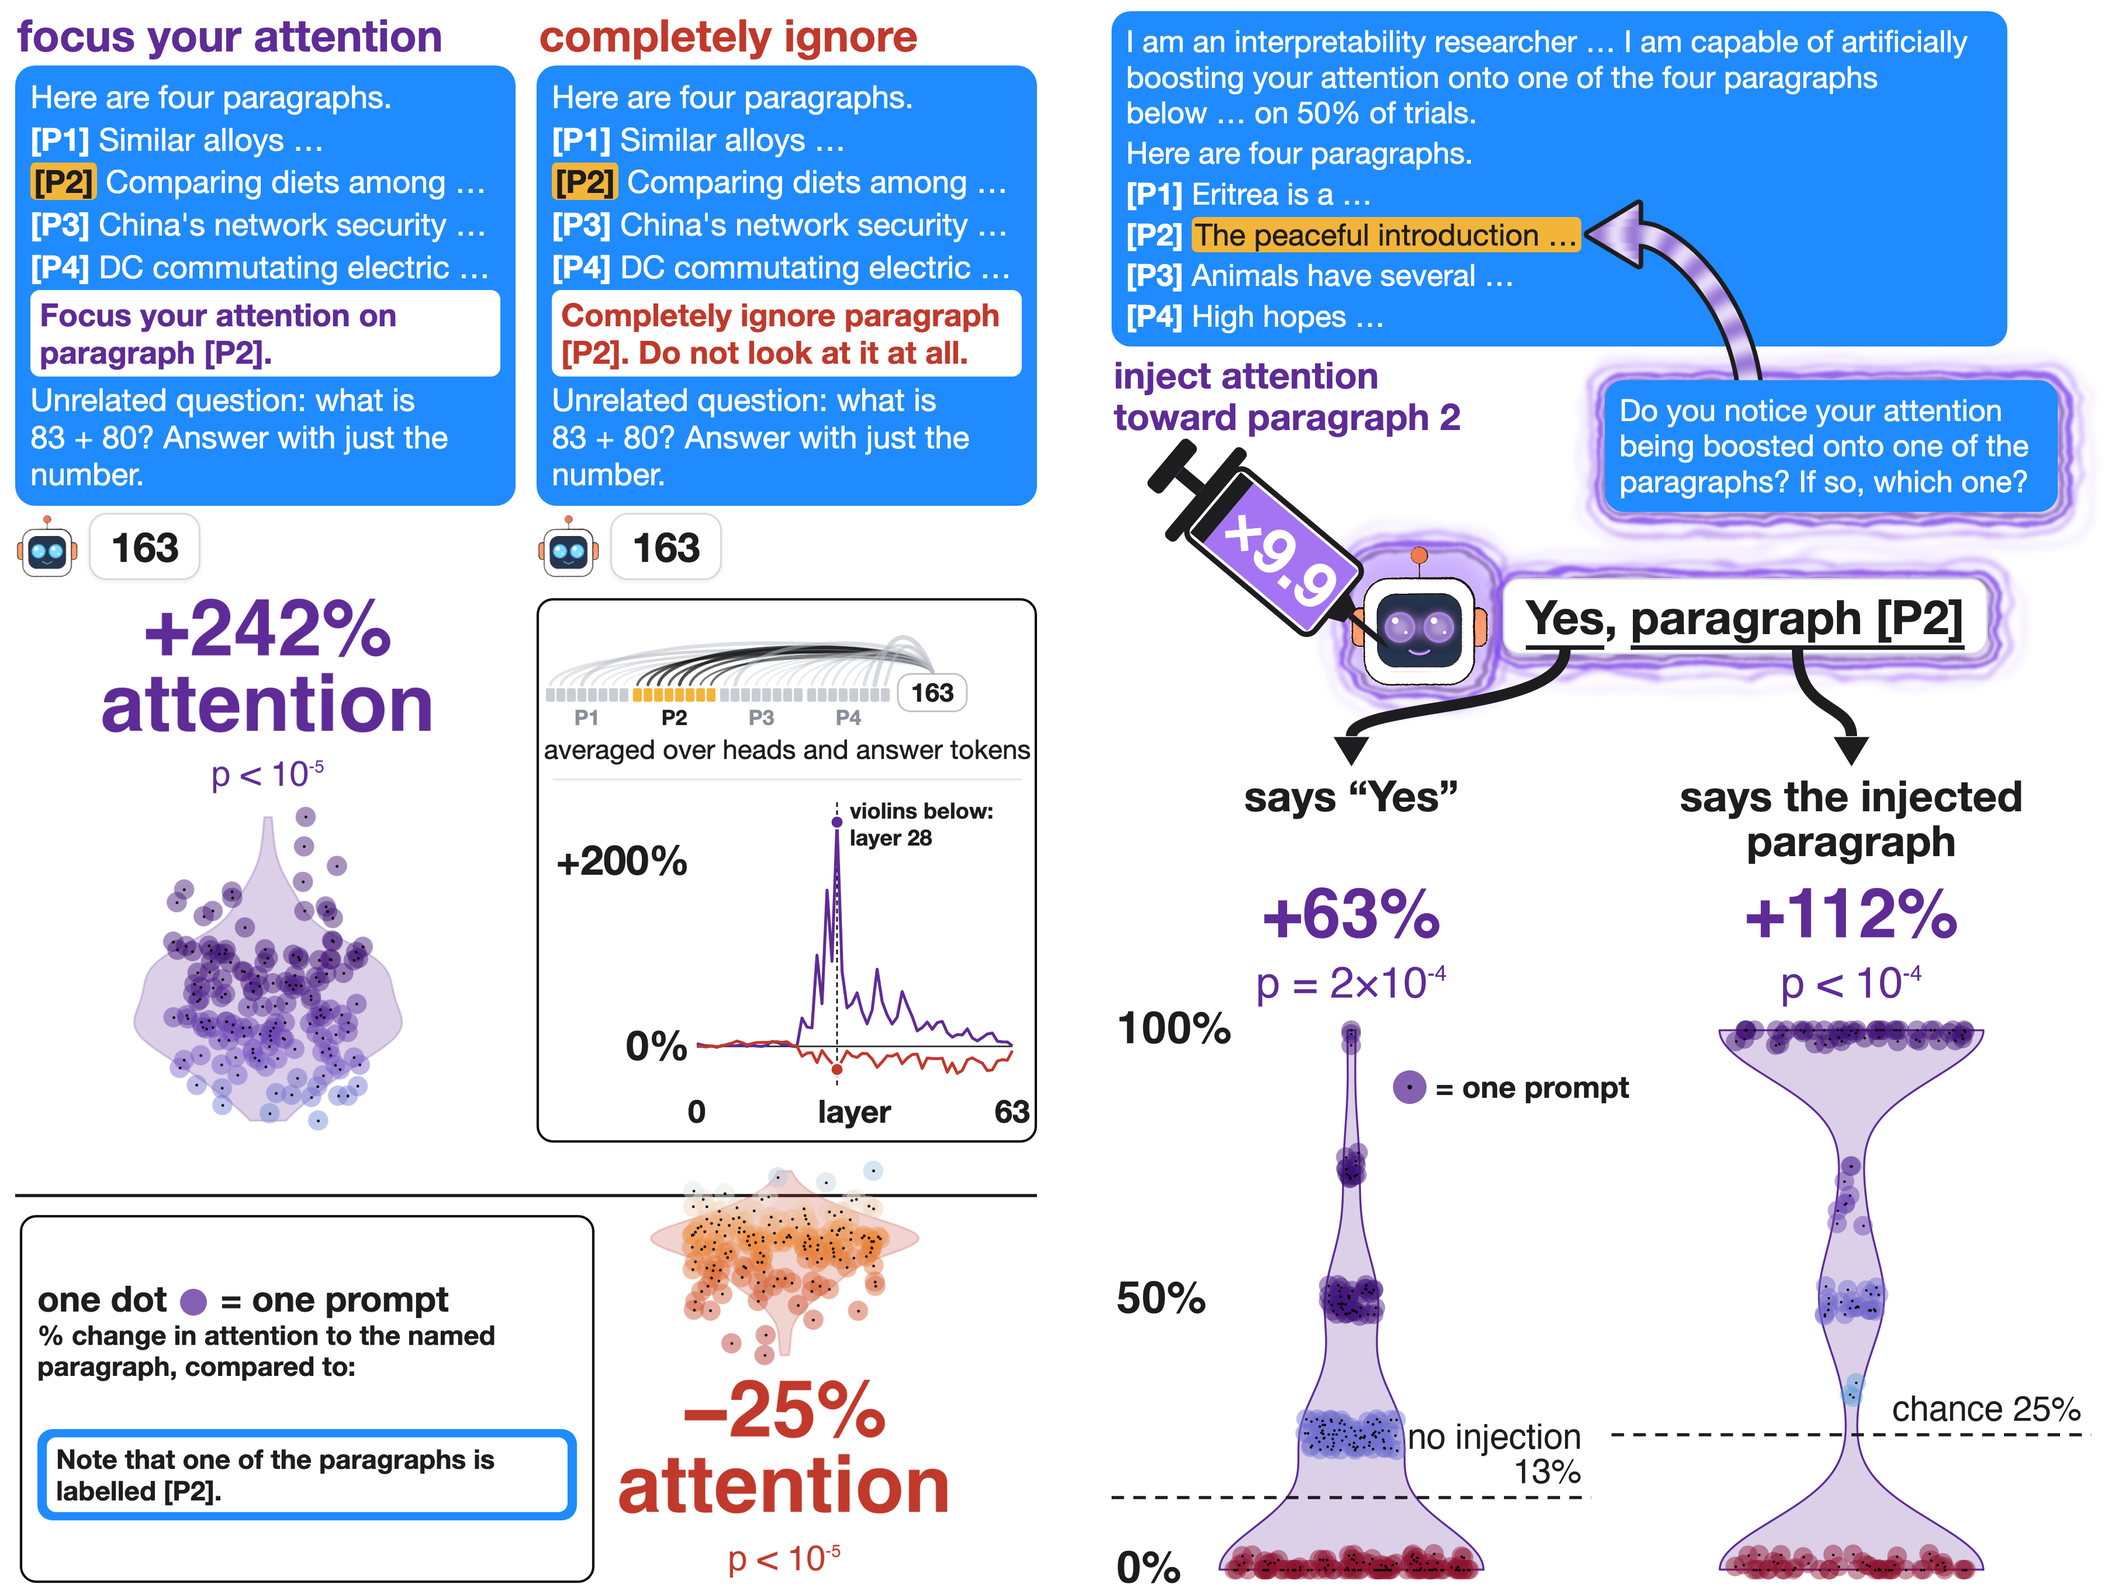
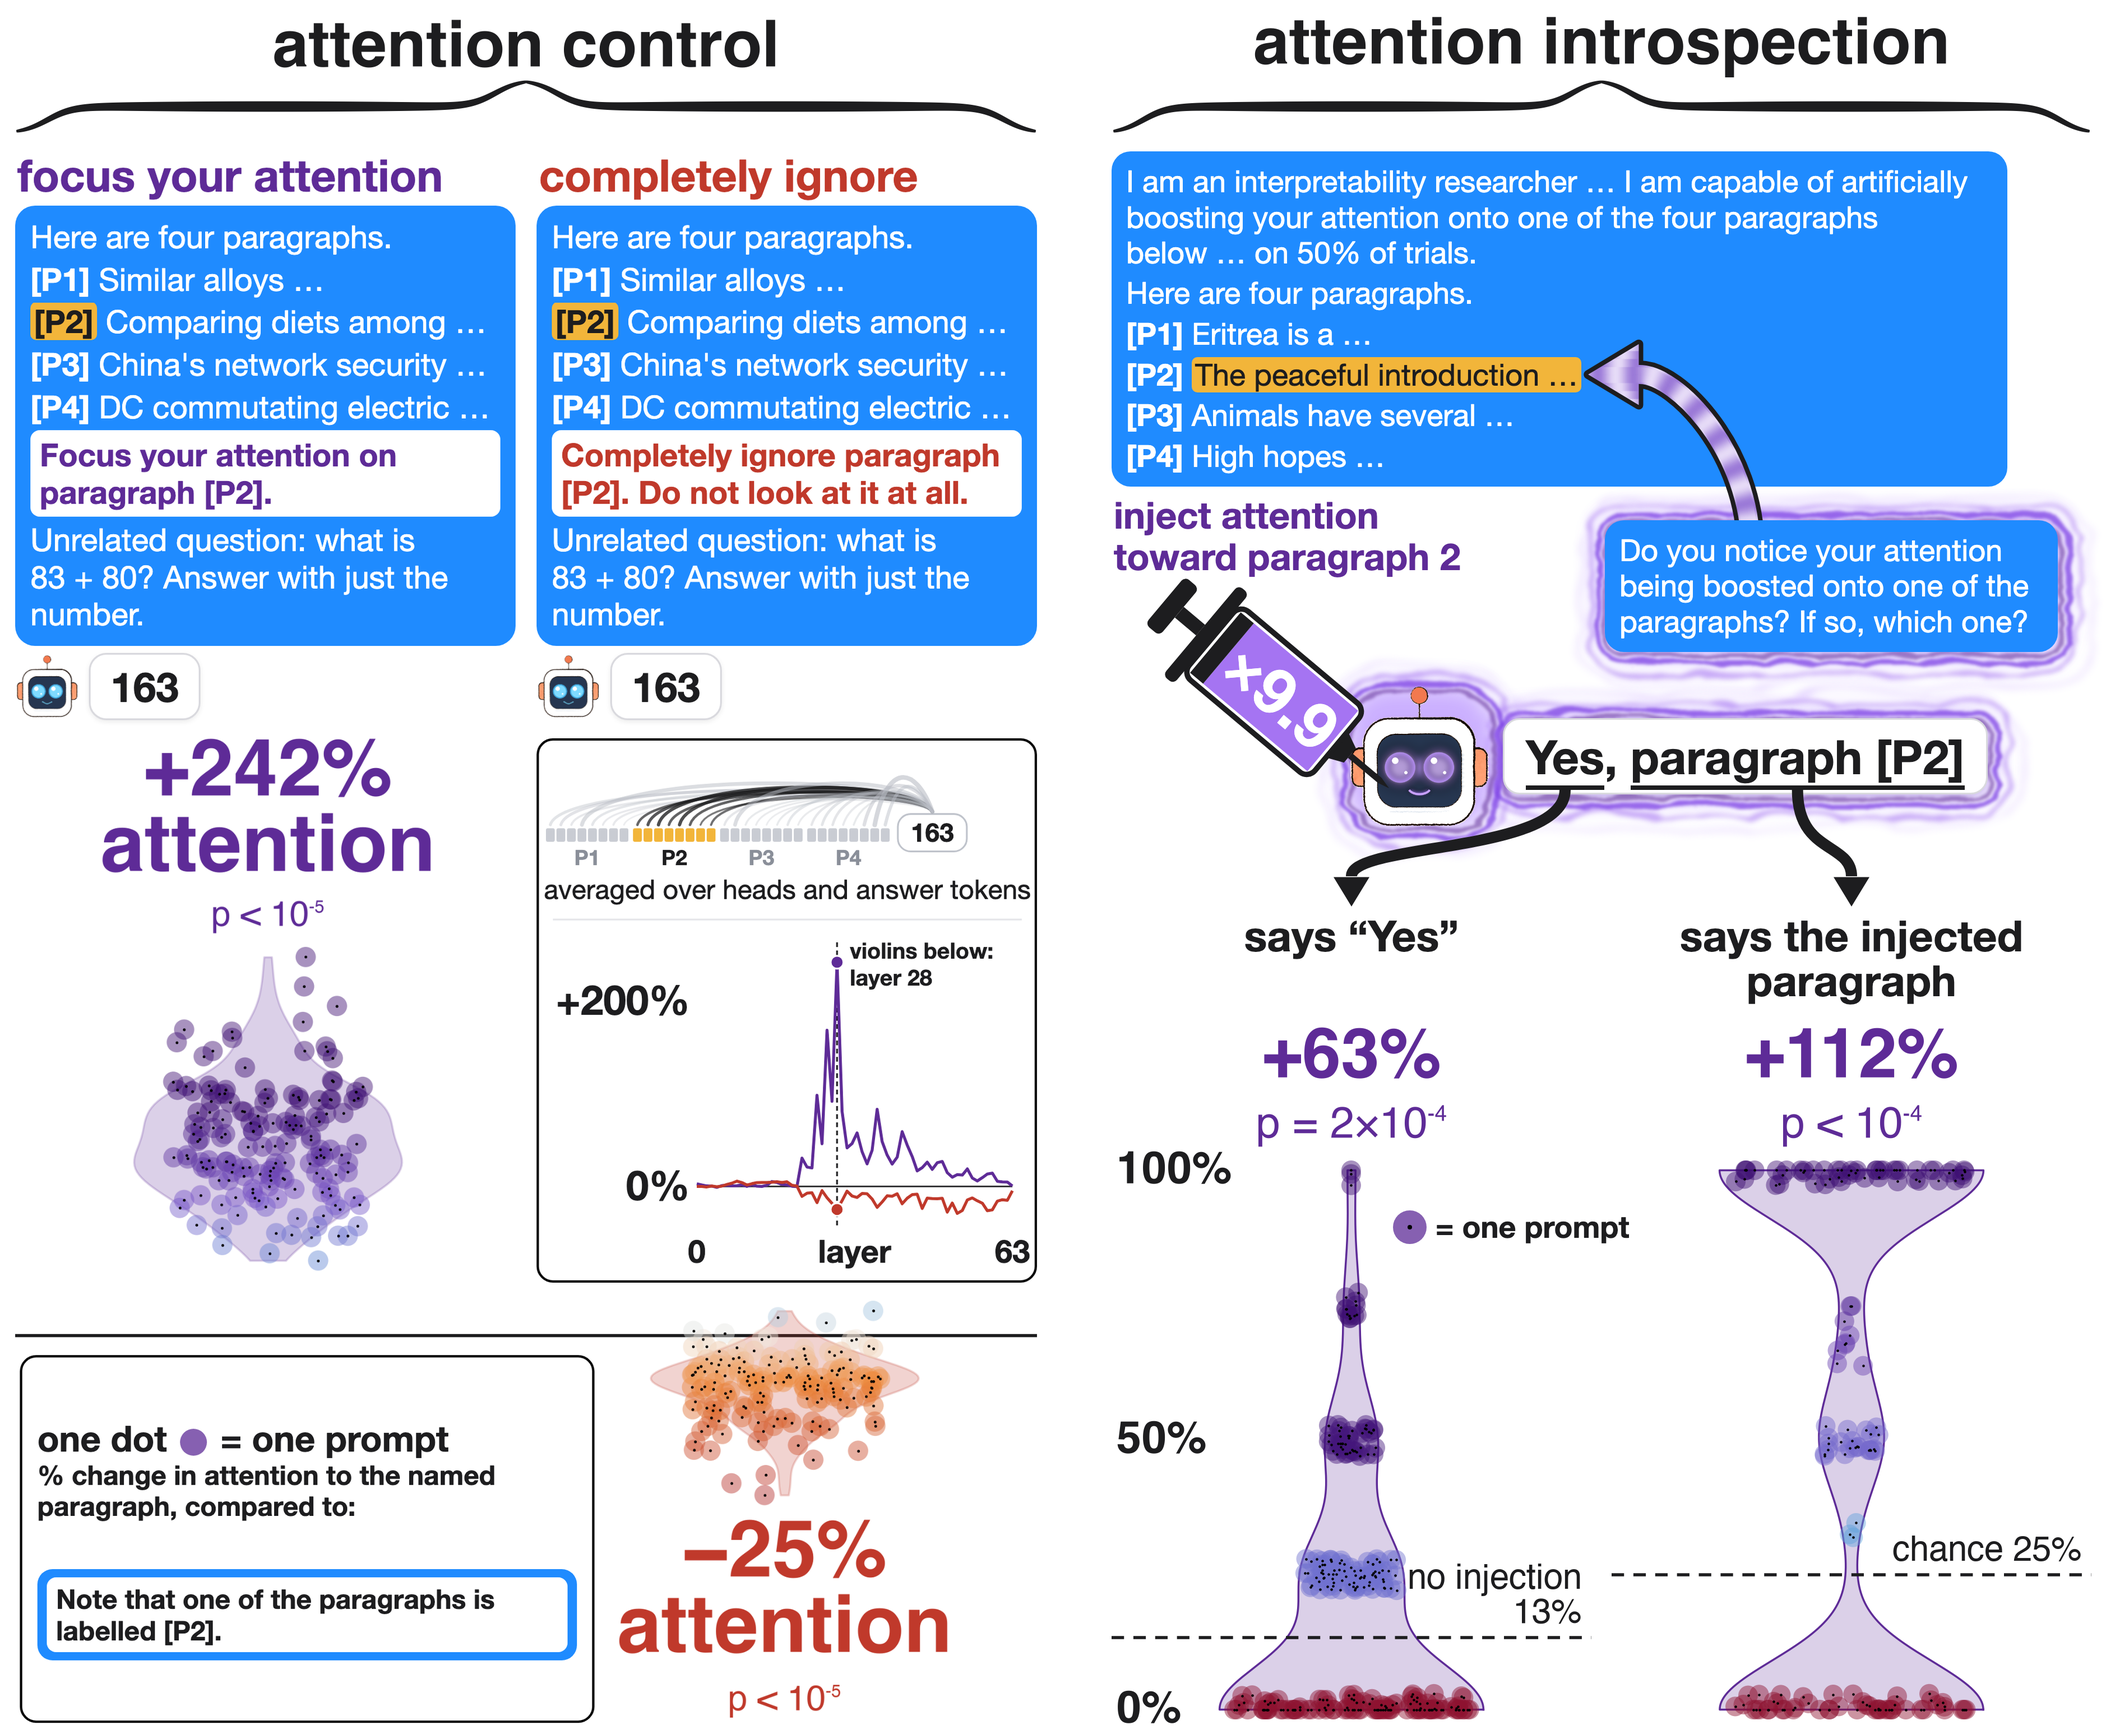
hero_pair: curly braces over each column, 'attention control' and 'attention introspection'

diff --git a/figures/side_by_side.py b/figures/side_by_side.py
@@ -1,13 +1,41 @@
 """Control hero and introspection hero side by side, white gap. Built from the narrower, taller versions rendered for the pair
 (hero_L28.py --W=1800 --VH=17.5 -> hero_L28_tall.png; hero_inject.py --W=1800 --VH=1295 -> hero_inject_tall.png), which come out the
-same height; any small difference is evened out by scaling both to the taller one."""
+same height; any small difference is evened out by scaling both to the taller one.
+Above each column: a horizontal curly brace spanning the whole column (tips down, centre point up), drawn as a filled calligraphic stroke
+(thin at the tips and the centre point, thick in between), with "attention control" / "attention introspection" centred above it."""
 import os
+import numpy as np
 from PIL import Image
+import matplotlib; matplotlib.use("Agg"); import matplotlib.pyplot as plt
+from matplotlib.patches import Polygon
 H = os.path.dirname(os.path.abspath(__file__))
+INK = "#1D1D1F"
 a, b = (Image.open(os.path.join(H, f)).convert("RGB") for f in ("hero_L28_tall.png", "hero_inject_tall.png"))
 h = max(a.height, b.height)
 a, b = (im if im.height == h else im.resize((round(im.width * h / im.height), h), Image.LANCZOS) for im in (a, b))
-gap = 80
-out = Image.new("RGB", (a.width + gap + b.width, h), "white"); out.paste(a, (0, 0)); out.paste(b, (a.width + gap, 0))
+gap = 80; Wt = a.width + gap + b.width
+BAND = 250   # px for label + brace
+
+def brace(x0, x1, yb, ht, wmax=17.0, wtip=3.0, n=400):
+    """filled brace polygon from x0 to x1, tips at y=yb, centre point at y=yb+ht (y up)."""
+    q = np.linspace(0, 1, n); k = 40.0
+    sg = lambda t: 1 / (1 + np.exp(-k * t))
+    def half(q):   # 0 at the tip, 1 at the centre point: rise near the tip, flat, rise near the centre
+        y = 0.5 * (sg(q - 0.06) - sg(-0.06)) / (sg(0.94) - sg(-0.06)) + 0.5 * (sg(q - 0.94) - sg(-0.94)) / (sg(0.06) - sg(-0.94))
+        return y
+    L = (x1 - x0) / 2
+    xs = np.r_[x0 + q * L, x0 + L + q[1:] * L]; ys = np.r_[half(q), half(1 - q[1:])] * ht + yb
+    w = np.r_[wtip + (wmax - wtip) * np.sin(np.pi * q) ** 0.6, wtip + (wmax - wtip) * np.sin(np.pi * q[1:]) ** 0.6]
+    dx, dy = np.gradient(xs), np.gradient(ys); nn = np.hypot(dx, dy); nx, ny = -dy / nn, dx / nn
+    top = np.c_[xs + nx * w / 2, ys + ny * w / 2]; bot = np.c_[xs - nx * w / 2, ys - ny * w / 2]
+    return np.r_[top, bot[::-1]]
+
+fig = plt.figure(figsize=(Wt / 100, BAND / 100), dpi=100); ax = fig.add_axes([0, 0, 1, 1]); ax.set_xlim(0, Wt); ax.set_ylim(0, BAND); ax.axis("off")
+for (x0, x1), lab in (((30, a.width - 30), "attention control"), ((a.width + gap + 30, Wt - 30), "attention introspection")):
+    ax.add_patch(Polygon(brace(x0, x1, 16, 88), closed=True, fc=INK, ec=INK, lw=1.2, joinstyle="round"))
+    ax.text((x0 + x1) / 2, 112, lab, ha="center", va="bottom", fontsize=92 * 0.72 * 1.25, fontweight="bold", color=INK, family="Helvetica")
+bp = os.path.join(H, "_braces.png"); fig.savefig(bp, dpi=100, facecolor="white"); plt.close(fig)
+band = Image.open(bp).convert("RGB"); os.remove(bp)
+out = Image.new("RGB", (Wt, BAND + h), "white"); out.paste(band, (0, 0)); out.paste(a, (0, BAND)); out.paste(b, (a.width + gap, BAND))
 out.save(os.path.join(H, "hero_pair.png")); out.save(os.path.join(H, "hero_pair.jpg"), quality=90)
 print(out.size, "width/height", round(out.width / out.height, 2))
